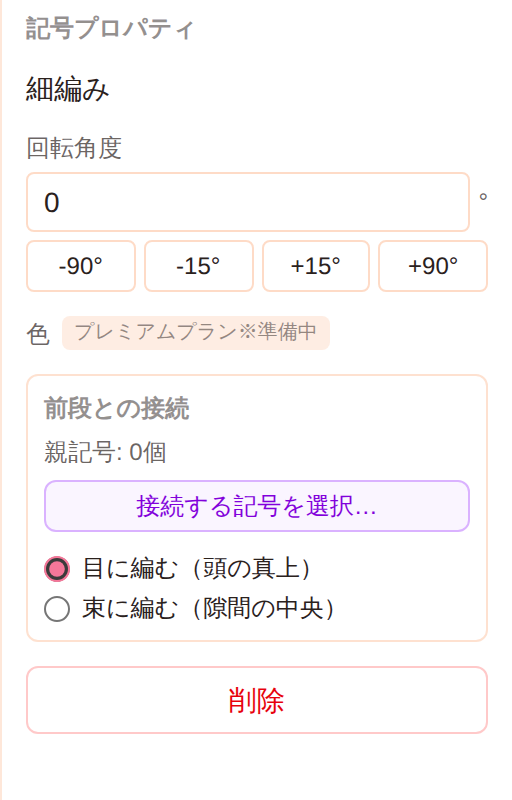
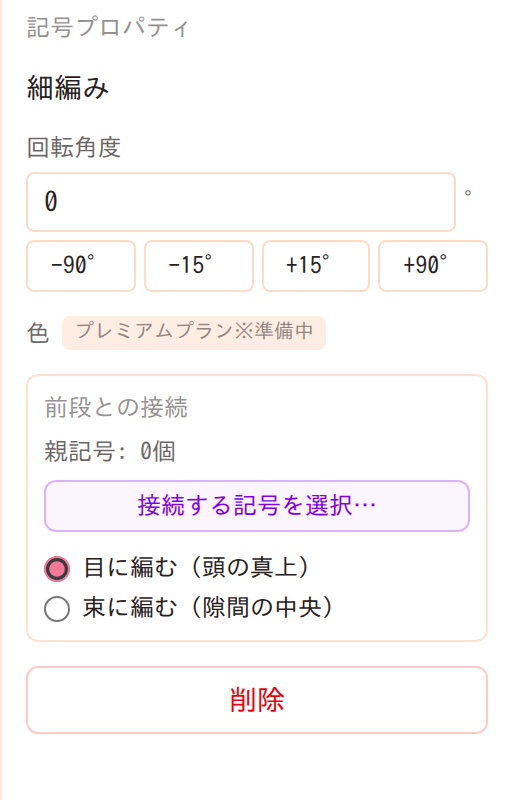
Match guide/home ordering to header nav, fix screenshot font, restyle closing line
- Reorder both the home page's tool cards and the guide page's sections/
  TOC to 編み方動画 → 編み図メーカー → 毛糸管理, matching the header nav.
- Recapture the editor and videos screenshots: this sandbox's fontconfig
  was resolving Japanese text to a Chinese font (WenQuanYi) for headless
  Chromium captures, making several kanji render with Han-unification
  glyph variants. Force the installed IPAGothic font for the capture
  session only (real visitors' browsers already use their own correct
  system font, unaffected by this).
- Give the 編み方動画 section's closing line the same white-card treatment
  as the other feature blocks instead of plain text on the mint background.

Claude-Session: https://claude.ai/code/session_01HoPq291ZyouvLwkHiLkbM6

diff --git a/src/app/guide/page.tsx b/src/app/guide/page.tsx
@@ -7,9 +7,9 @@ export const metadata: Metadata = {
 };
 
 const TOC = [
+  { href: "#videos", label: "編み方動画" },
   { href: "#editor", label: "編み図メーカー" },
   { href: "#yarn", label: "毛糸管理" },
-  { href: "#videos", label: "編み方動画" },
 ] as const;
 
 export default function GuidePage() {
@@ -39,6 +39,15 @@ export default function GuidePage() {
             </a>
           ))}
         </nav>
+
+        <GuideSection id="videos" title="編み方動画" intro="基本の編み方から増し目・減らし目、応用の編み方まで、カテゴリ別に動画で解説しています。">
+          <GuideImage src="/guide/videos-categories.png" alt="編み方動画のカテゴリ一覧" />
+          <div className="rounded-2xl bg-white p-5 text-center" style={{ border: "1px solid #CDEBE1" }}>
+            <p className="text-sm font-medium leading-relaxed" style={{ color: "#3D6B5C" }}>
+              カテゴリから気になる編み方を探して、動画を見て実践してみよう！
+            </p>
+          </div>
+        </GuideSection>
 
         <GuideSection id="editor" title="編み図メーカー" intro="かぎ針編みの編み図を、ブラウザ上で作成できるツールです。">
           <GuideImage src="/guide/toolbar.png" alt="編み図メーカーのツールバー" />
@@ -86,13 +95,6 @@ export default function GuidePage() {
           <Feature title="編んだ作品をメモする">
             使った毛糸と紐づけて、編んだ作品の記録をメモとして残せます。過去にどの毛糸で何を作ったかを振り返るのに便利です。
           </Feature>
-        </GuideSection>
-
-        <GuideSection id="videos" title="編み方動画" intro="基本の編み方から増し目・減らし目、応用の編み方まで、カテゴリ別に動画で解説しています。">
-          <GuideImage src="/guide/videos-categories.png" alt="編み方動画のカテゴリ一覧" />
-          <p className="mt-6 text-center text-sm font-medium leading-relaxed" style={{ color: "#3D6B5C" }}>
-            カテゴリから気になる編み方を探して、動画を見て実践してみよう！
-          </p>
         </GuideSection>
       </main>
 

diff --git a/src/app/page.tsx b/src/app/page.tsx
@@ -3,6 +3,16 @@ import { SiteFooter } from "@/components/SiteFooter";
 
 const TOOLS = [
   {
+    key: "videos",
+    title: "編み方動画",
+    description: "基本から応用まで動画で解説",
+    buttonLabel: "編み方を見る",
+    href: "/videos",
+    iconBg: "#FDF6D8",
+    iconColor: "#D4C220",
+    icon: <PlayIcon />,
+  },
+  {
     key: "editor",
     title: "編み図メーカー",
     description: "かぎ針編みの編み図を作成",
@@ -21,16 +31,6 @@ const TOOLS = [
     iconBg: "#FCE7EA",
     iconColor: "#F18D9E",
     icon: <YarnIcon />,
-  },
-  {
-    key: "videos",
-    title: "編み方動画",
-    description: "基本から応用まで動画で解説",
-    buttonLabel: "編み方を見る",
-    href: "/videos",
-    iconBg: "#FDF6D8",
-    iconColor: "#D4C220",
-    icon: <PlayIcon />,
   },
 ] as const;
 
